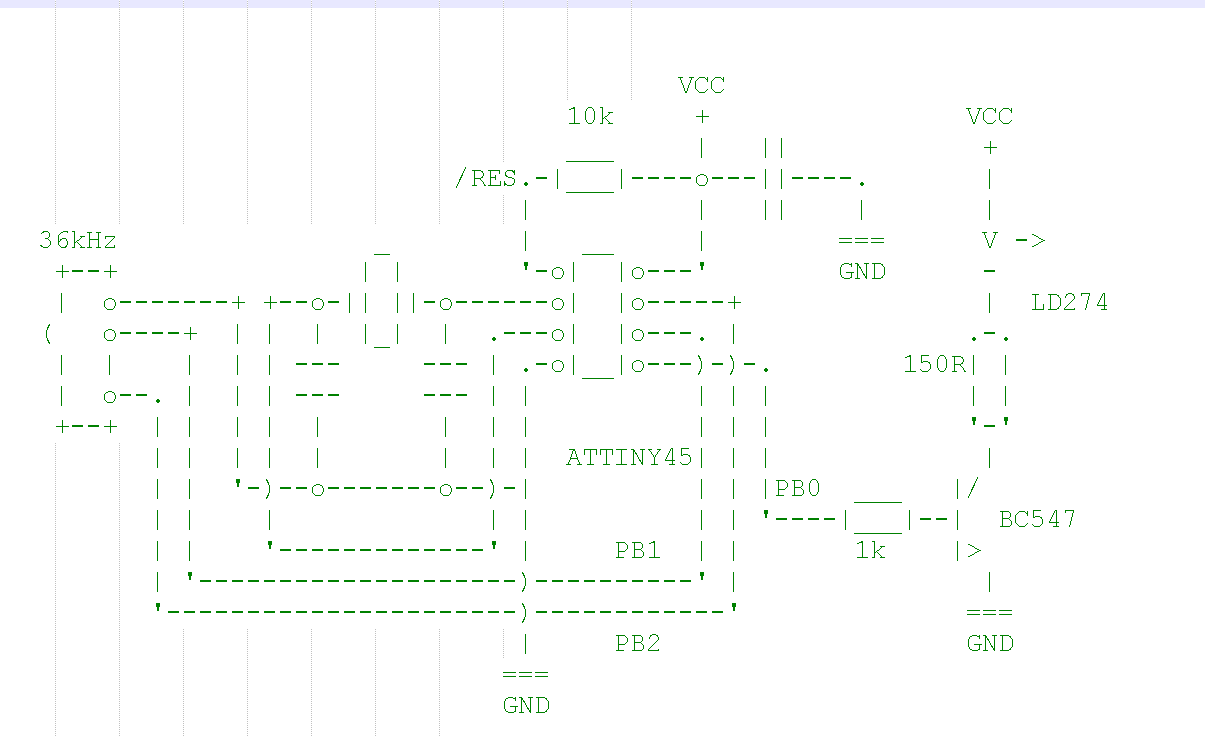
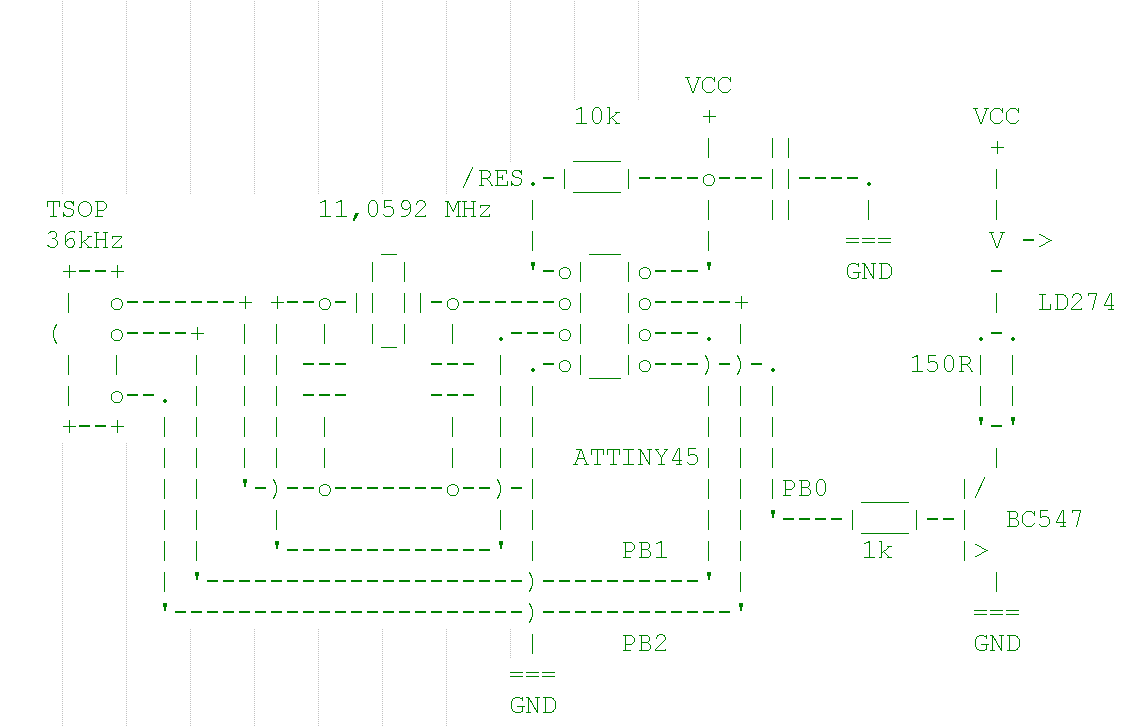
complete schematic

diff --git a/atmel_studio/irextender/main.c b/atmel_studio/irextender/main.c
@@ -8,7 +8,7 @@
                                     10k     +                VCC
                                     ___     |   ||            +
                              /RES.-|___|----o---||----.       |
-                                 |          |   ||    |       |
+   TSOP             11,0592 MHz  |          |   ||    |       |
    36kHz                _        |   __     |        ===      V ->
     +--+               | |       '-o|  |o---'        GND      -
     |  o-------+ +--o-|| ||-o------o|  |o-----+               |  LD274
